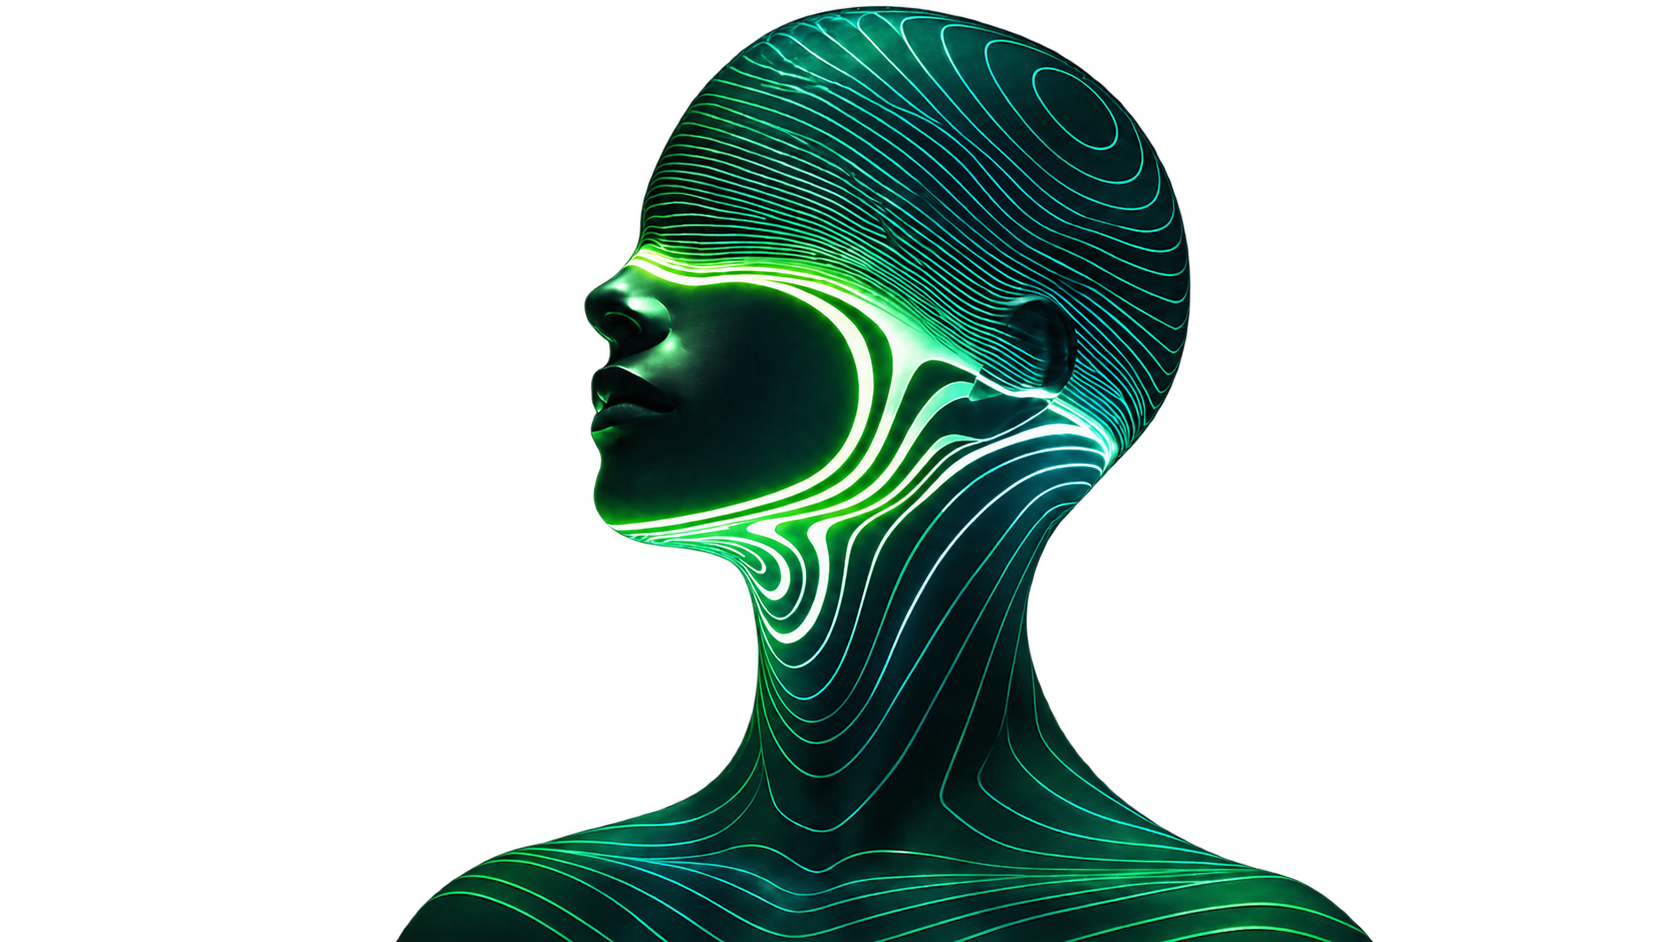
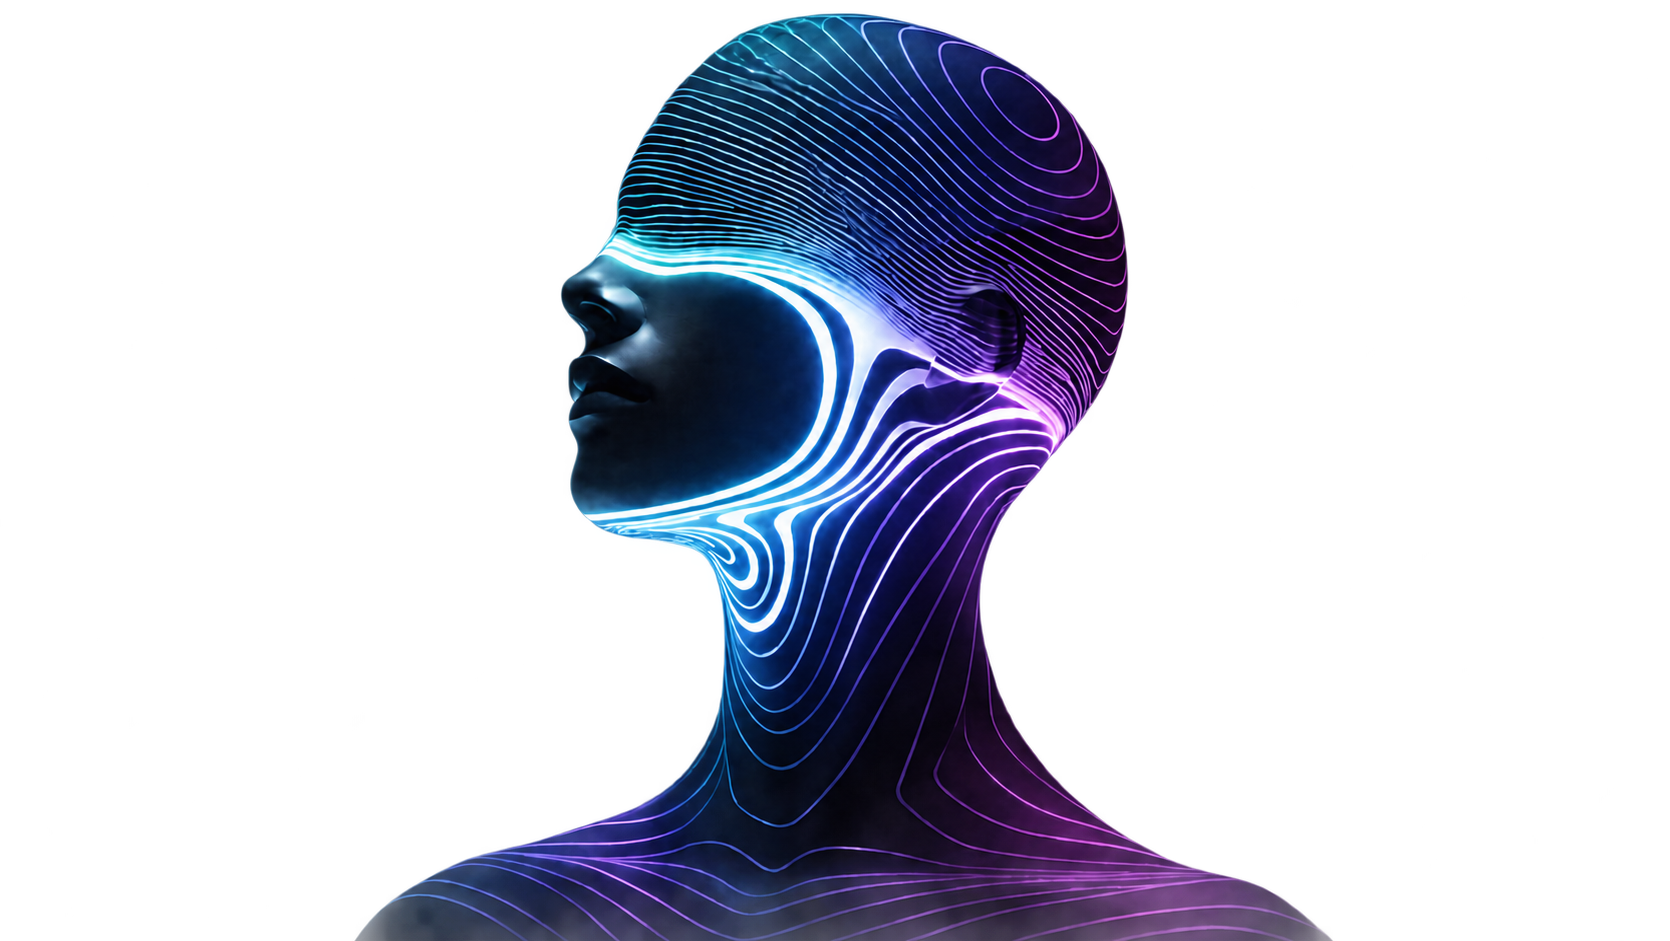
lab/lv8: remove image 7 from page-2 rotation, replace wipe with blur-swap
Two corrections per chat reply:

1. "man image 7.png" (green) is out of the rotation entirely, not
   swapped for anything — 5 images left: 1, 2, 3, 4, 6. Renumbered the
   project files to stay sequential rather than leave a gap: the old
   portrait-5.png (green) is deleted, and what was portrait-6.png ("man
   image 6.png") is now portrait-5.png. PORTRAIT_COUNT dropped 6->5 and
   PORTRAIT_GRADIENTS lost its green entry, in page2.ts.

2. The right-to-left slide/wipe is gone. runWipe (clip-region reveal +
   pixelated leading-edge band) is replaced by runBlurTransition: blur
   ramps up (same timing/intensity as before — confirmed correct, left
   untouched), and the instant peak blur is crossed the canvas content is
   swapped to the next image in one cut, then blur ramps back down. No
   translate/clip ever happens — verified via polling the canvas's own
   `transform` (stayed 'none' throughout every sampled frame) alongside
   its `filter`. drawImageCover dropped its now-unused clip params, and
   drawPixelatedBand/WIPE_BAND_PX/WIPE_BLOCK are deleted outright rather
   than left as dead code.

Verified on desktop viewport via headless runs: dist output contains
exactly 5 hashed portrait assets after `npm run build`; captured a
peak-blur frame (17.7px, off a single sample run — logged the blur
values climbing then falling across polled frames) showing a single
uniformly-blurred figure with no visible seam or directional motion;
[…]

Changed region(s): [[0.1868, 0.0, 0.8407, 1.0]]

diff --git a/lab/lv8/page2.ts b/lab/lv8/page2.ts
@@ -1,26 +1,28 @@
 // /lab/lv8 — "page 2", revealed by the hero's strip-flip (see main.ts's
 // Move Next handler + lv8-strip-field.ts's triggerFlipReveal). Three
-// independent pieces live here, all driven off the same six portrait
+// independent pieces live here, all driven off the same five portrait
 // images:
 //
 //  1. a continuously-drifting ambient gradient behind everything — a
 //     strict 6-band vertical light-to-dark structure (see
 //     PORTRAIT_GRADIENTS below), never cursor-reactive, always live.
-//  2. the portraits themselves, rotating every ~7-10s via a blur-then-
-//     pixelated-wipe right-to-left, rendered on a <canvas> (see
-//     startPortraitCycle).
+//  2. the portraits themselves, rotating every ~7-10s via a blur-swap
+//     (no sliding/wiping motion — see runBlurTransition) rendered on a
+//     <canvas> (see startPortraitCycle).
 //  3. the inert menu dropdown + Contact button (no navigation — lv8 is a
 //     standalone route, see the chat reply and index.html's comment).
 //
 // Only imported (dynamically, from main.ts) once the flip-reveal starts,
-// same spirit as game.ts's own dynamic import — no reason to pay for six
-// portrait PNGs (~5MB) on a visit that never reaches "Move Next".
+// same spirit as game.ts's own dynamic import — no reason to pay for
+// five portrait PNGs (~4MB) on a visit that never reaches "Move Next".
 //
-// portrait-5.png's SOURCE was swapped ("man image 5.png" -> "man image
-// 7.png", per the chat reply) but it keeps the same project filename —
-// simplest fix, no rename/re-plumbing needed elsewhere.
+// "man image 7.png" (the green one that briefly replaced the old image 5)
+// is removed from the rotation entirely per the chat reply, not swapped
+// for anything — the 5 remaining files were renumbered so portrait-5.png
+// is now what used to be portrait-6.png ("man image 6.png"), keeping the
+// filenames sequential (portrait-1..5.png) rather than leaving a gap.
 
-const PORTRAIT_COUNT = 6;
+const PORTRAIT_COUNT = 5;
 const PORTRAIT_URLS = Array.from(
   { length: PORTRAIT_COUNT },
   (_, i) => new URL(`./portraits/portrait-${i + 1}.png`, import.meta.url).href
@@ -36,30 +38,25 @@ const PORTRAIT_URLS = Array.from(
 // lightness the brief's band table calls for (e.g. 0% stop ~92% light
 // "extremely light", 100% stop ~3% light "near-black"), with saturation
 // peaking at the 50% stop per "strongest colour in the middle band, not
-// a flat fade". Order matches portrait-1..6.png.
+// a flat fade". Order matches portrait-1..5.png.
 const GRADIENT_STOP_KEYS = ['g0', 'g1', 'g2', 'g3', 'g4', 'g5', 'g6'] as const;
 const PORTRAIT_GRADIENTS: string[][] = [
   ['#e8eaed', '#bcc6dc', '#7495dc', '#1552d5', '#1b3774', '#111622', '#060709'], // 1 — blue
   ['#ede8e8', '#dcbcc0', '#dc7482', '#d5152e', '#741b27', '#221113', '#090607'], // 2 — red
   ['#ebe8ed', '#ccbcdc', '#a974dc', '#7615d5', '#481b74', '#1a1122', '#080609'], // 3 — violet
   ['#edeae8', '#dcc8bc', '#dc9b74', '#d55c15', '#743c1b', '#221711', '#090706'], // 4 — orange
-  ['#e8edec', '#bcdcd2', '#74dcbc', '#15d599', '#1b7458', '#11221d', '#060908'], // 5 — green (man image 7.png)
-  ['#e8e9ed', '#bcc4dc', '#748fdc', '#1546d5', '#1b3274', '#111522', '#060709'], // 6 — blue/violet
+  ['#e8e9ed', '#bcc4dc', '#748fdc', '#1546d5', '#1b3274', '#111522', '#060709'], // 5 — blue/violet (was "6")
 ];
 
 const ROTATE_MIN_MS = 7000;
 const ROTATE_MAX_MS = 10000;
-// Corrected transition (see chat reply): slower overall, and the reveal
-// now happens WHILE the canvas is blurred rather than snapping instantly
-// — three phases inside this one duration: blur in, wipe (under blur),
-// blur out. See runWipe.
-const WIPE_TOTAL_MS = 2600;
-const WIPE_PHASE1_FRAC = 0.28; // blur in — outgoing image only, no content change yet
-const WIPE_PHASE2_FRAC = 0.42; // the right-to-left reveal itself, still blurred
-// phase 3 (blur out) is whatever's left: 1 - PHASE1 - PHASE2
-const WIPE_BLUR_MAX_PX = 18;
-const WIPE_BAND_PX = 46; // width of the pixelated leading edge, in canvas px
-const WIPE_BLOCK = 10; // pixelation block size within that band
+// Corrected transition (see chat reply): no sliding/wiping motion at
+// all. Blur-in timing/intensity kept exactly as previously confirmed
+// correct; the swap now happens as a single instant cut at peak blur
+// (see runBlurTransition), not a reveal spread across a middle phase.
+const TRANSITION_TOTAL_MS = 2600;
+const BLUR_IN_FRAC = 0.28; // the swap fires the instant this fraction is crossed — peak blur
+const TRANSITION_BLUR_MAX_PX = 18;
 
 let started = false;
 let rafId: number | null = null;
@@ -91,8 +88,9 @@ export function stopPage2() {
 // restarts or jumps when the palette swaps. setAmbientForIndex is called
 // the INSTANT a portrait transition starts (see scheduleNext below), not
 // after it finishes, so this 2.2s crossfade runs concurrently with the
-// portrait's own (slower, 2.6s) blur/wipe — reading as one continuous
-// shift instead of the image changing and then the colour catching up.
+// portrait's own (slower, 2.6s) blur transition — reading as one
+// continuous shift instead of the image changing and then the colour
+// catching up.
 // ---------------------------------------------------------------
 const ambientA = document.getElementById('lv8-ambient-a');
 const ambientB = document.getElementById('lv8-ambient-b');
@@ -120,8 +118,9 @@ function setAmbientForIndex(index: number) {
 }
 
 // ---------------------------------------------------------------
-// Portrait cycle — pixelated right-to-left wipe between images, looping
-// 1 -> 2 -> ... -> 6 -> 1, roughly every 7-10s while idle.
+// Portrait cycle — blur-swap between images (no sliding/wiping — see
+// runBlurTransition), looping 1 -> 2 -> ... -> 5 -> 1, roughly every
+// 7-10s while idle.
 // ---------------------------------------------------------------
 async function loadImage(src: string): Promise<HTMLImageElement> {
   return new Promise((resolve, reject) => {
@@ -160,52 +159,10 @@ async function startPortraitCycle() {
   resizeCanvas();
   window.addEventListener('resize', resizeCanvas);
 
-  function drawImageCover(image: HTMLImageElement, clipX?: number, clipWidth?: number) {
+  function drawImageCover(image: HTMLImageElement) {
     const { width: w, height: h } = canvas!;
     const rect = fitCover(image.naturalWidth, image.naturalHeight, w, h);
-    if (clipX === undefined) {
-      ctx!.drawImage(image, rect.x, rect.y, rect.w, rect.h);
-      return;
-    }
-    ctx!.save();
-    ctx!.beginPath();
-    ctx!.rect(clipX, 0, clipWidth ?? w - clipX, h);
-    ctx!.clip();
     ctx!.drawImage(image, rect.x, rect.y, rect.w, rect.h);
-    ctx!.restore();
-  }
-
-  // the blocky leading edge: downsample a narrow vertical band of the
-  // incoming image to big chunky pixels, then draw it back up scaled
-  // with smoothing off — genuinely pixelated, not a blur standing in.
-  function drawPixelatedBand(image: HTMLImageElement, bandX: number, bandW: number) {
-    const { width: w, height: h } = canvas!;
-    if (bandW <= 0 || bandX + bandW < 0 || bandX > w) return;
-    const x0 = Math.max(0, bandX);
-    const x1 = Math.min(w, bandX + bandW);
-    const clippedW = x1 - x0;
-    if (clippedW <= 0) return;
-
-    const blockCols = Math.max(1, Math.round(clippedW / WIPE_BLOCK));
-    const blockRows = Math.max(1, Math.round(h / WIPE_BLOCK));
-
-    const off = document.createElement('canvas');
-    off.width = blockCols;
-    off.height = blockRows;
-    const offCtx = off.getContext('2d');
-    if (!offCtx) return;
-    const rect = fitCover(image.naturalWidth, image.naturalHeight, w, h);
-    // shift the source draw so the offscreen canvas (which only covers
-    // [x0, x1)) still samples the correct slice of the full-cover image
-    offCtx.drawImage(image, rect.x - x0, rect.y, rect.w, rect.h);
-
-    ctx!.save();
-    ctx!.imageSmoothingEnabled = false;
-    ctx!.beginPath();
-    ctx!.rect(x0, 0, clippedW, h);
-    ctx!.clip();
-    ctx!.drawImage(off, x0, 0, clippedW, h);
-    ctx!.restore();
   }
 
   function renderStatic() {
@@ -220,55 +177,44 @@ async function startPortraitCycle() {
     return c * c * (3 - 2 * c);
   }
 
-  // Three phases inside one duration (see chat reply — corrects the old
-  // instant snap): the outgoing image blurs up first (no content change
-  // yet), THEN the right-to-left reveal happens while still blurred (so
-  // the swap itself reads as "the colours are changing" rather than "a
-  // new picture snapped in"), then the now-fully-incoming image blurs
-  // back down to crisp. The blur is a plain CSS filter on the canvas
-  // element — cheap, and it naturally also softens the pixelated band's
-  // hard block edges during phase 2 instead of fighting them.
-  function runWipe(fromIndex: number, toIndex: number): Promise<void> {
+  // No sliding/wiping motion (see chat reply — corrects the previous
+  // right-to-left wipe): the outgoing image blurs up, then AT peak blur
+  // the canvas content is swapped to the incoming image in one instant
+  // cut (not a reveal spread over time), then blur eases back down to
+  // crisp. The blur is a plain CSS filter on the canvas element, so the
+  // swap itself — hidden inside the blur — is the only content change;
+  // nothing ever moves left or right.
+  function runBlurTransition(fromIndex: number, toIndex: number): Promise<void> {
     return new Promise(resolve => {
       const start = performance.now();
-      const phase3Frac = 1 - WIPE_PHASE1_FRAC - WIPE_PHASE2_FRAC;
+      let swapped = false;
 
       function step(time: number) {
-        const t = Math.min((time - start) / WIPE_TOTAL_MS, 1);
-        const { width: w, height: h } = canvas!;
+        const t = Math.min((time - start) / TRANSITION_TOTAL_MS, 1);
 
         let blurPx: number;
-        let revealFrac: number;
-        if (t < WIPE_PHASE1_FRAC) {
-          blurPx = WIPE_BLUR_MAX_PX * smoothstep(t / WIPE_PHASE1_FRAC);
-          revealFrac = 0;
-        } else if (t < WIPE_PHASE1_FRAC + WIPE_PHASE2_FRAC) {
-          blurPx = WIPE_BLUR_MAX_PX;
-          revealFrac = smoothstep((t - WIPE_PHASE1_FRAC) / WIPE_PHASE2_FRAC);
+        if (t < BLUR_IN_FRAC) {
+          blurPx = TRANSITION_BLUR_MAX_PX * smoothstep(t / BLUR_IN_FRAC);
         } else {
-          const t3 = (t - WIPE_PHASE1_FRAC - WIPE_PHASE2_FRAC) / phase3Frac;
-          blurPx = WIPE_BLUR_MAX_PX * (1 - smoothstep(t3));
-          revealFrac = 1;
+          const tOut = (t - BLUR_IN_FRAC) / (1 - BLUR_IN_FRAC);
+          blurPx = TRANSITION_BLUR_MAX_PX * (1 - smoothstep(tOut));
         }
-
         canvas!.style.filter = blurPx > 0.4 ? `blur(${blurPx.toFixed(1)}px)` : 'none';
 
-        const revealX = w * (1 - revealFrac); // grows the revealed region from the right edge leftward
-        ctx!.clearRect(0, 0, w, h);
-        drawImageCover(images[fromIndex]); // untouched (not-yet-reached) portion underneath
-        drawImageCover(images[toIndex], revealX, w - revealX); // already-revealed portion
-        if (revealFrac > 0 && revealFrac < 1) {
-          drawPixelatedBand(images[toIndex], revealX - WIPE_BAND_PX / 2, WIPE_BAND_PX); // the sweeping blocky seam
+        if (!swapped && t >= BLUR_IN_FRAC) {
+          swapped = true;
+          renderStaticFor(toIndex); // the cut — happens once, at peak blur
         }
 
         if (t < 1) {
           rafId = requestAnimationFrame(step);
         } else {
           canvas!.style.filter = 'none';
-          renderStaticFor(toIndex);
           resolve();
         }
       }
+
+      renderStaticFor(fromIndex); // drawn once up front — nothing else changes the pixels during blur-in
       rafId = requestAnimationFrame(step);
     });
   }
@@ -284,10 +230,10 @@ async function startPortraitCycle() {
     rotateTimer = window.setTimeout(async () => {
       if (!started) return;
       const nextIndex = (activeIndex + 1) % PORTRAIT_COUNT;
-      // fired now, concurrently with the blur/wipe below, not after it
-      // resolves — see the ambient section's comment for why
+      // fired now, concurrently with the blur transition below, not
+      // after it resolves — see the ambient section's comment for why
       setAmbientForIndex(nextIndex);
-      await runWipe(activeIndex, nextIndex);
+      await runBlurTransition(activeIndex, nextIndex);
       activeIndex = nextIndex;
       if (started) scheduleNext();
     }, delay);

diff --git a/lab/lv8/lv8.css b/lab/lv8/lv8.css
@@ -356,8 +356,8 @@ body.lv8 {
    PORTRAIT_GRADIENTS in page2.ts), not a fixed palette. Two layers still
    crossfade on an image change (main.ts calls setAmbientForIndex the
    INSTANT a transition starts, not after it finishes, so the colour
-   cross-fade runs concurrently with the portrait's own blur/wipe rather
-   than only starting once that's already done — that sequential feel
+   cross-fade runs concurrently with the portrait's own blur transition
+   rather than only starting once that's already done — that sequential feel
    was the "turn the light off and on" complaint). The slow scale/drift
    on the layer itself is what keeps this "live" without touching the
    band structure — the gradient stops themselves never move. */
